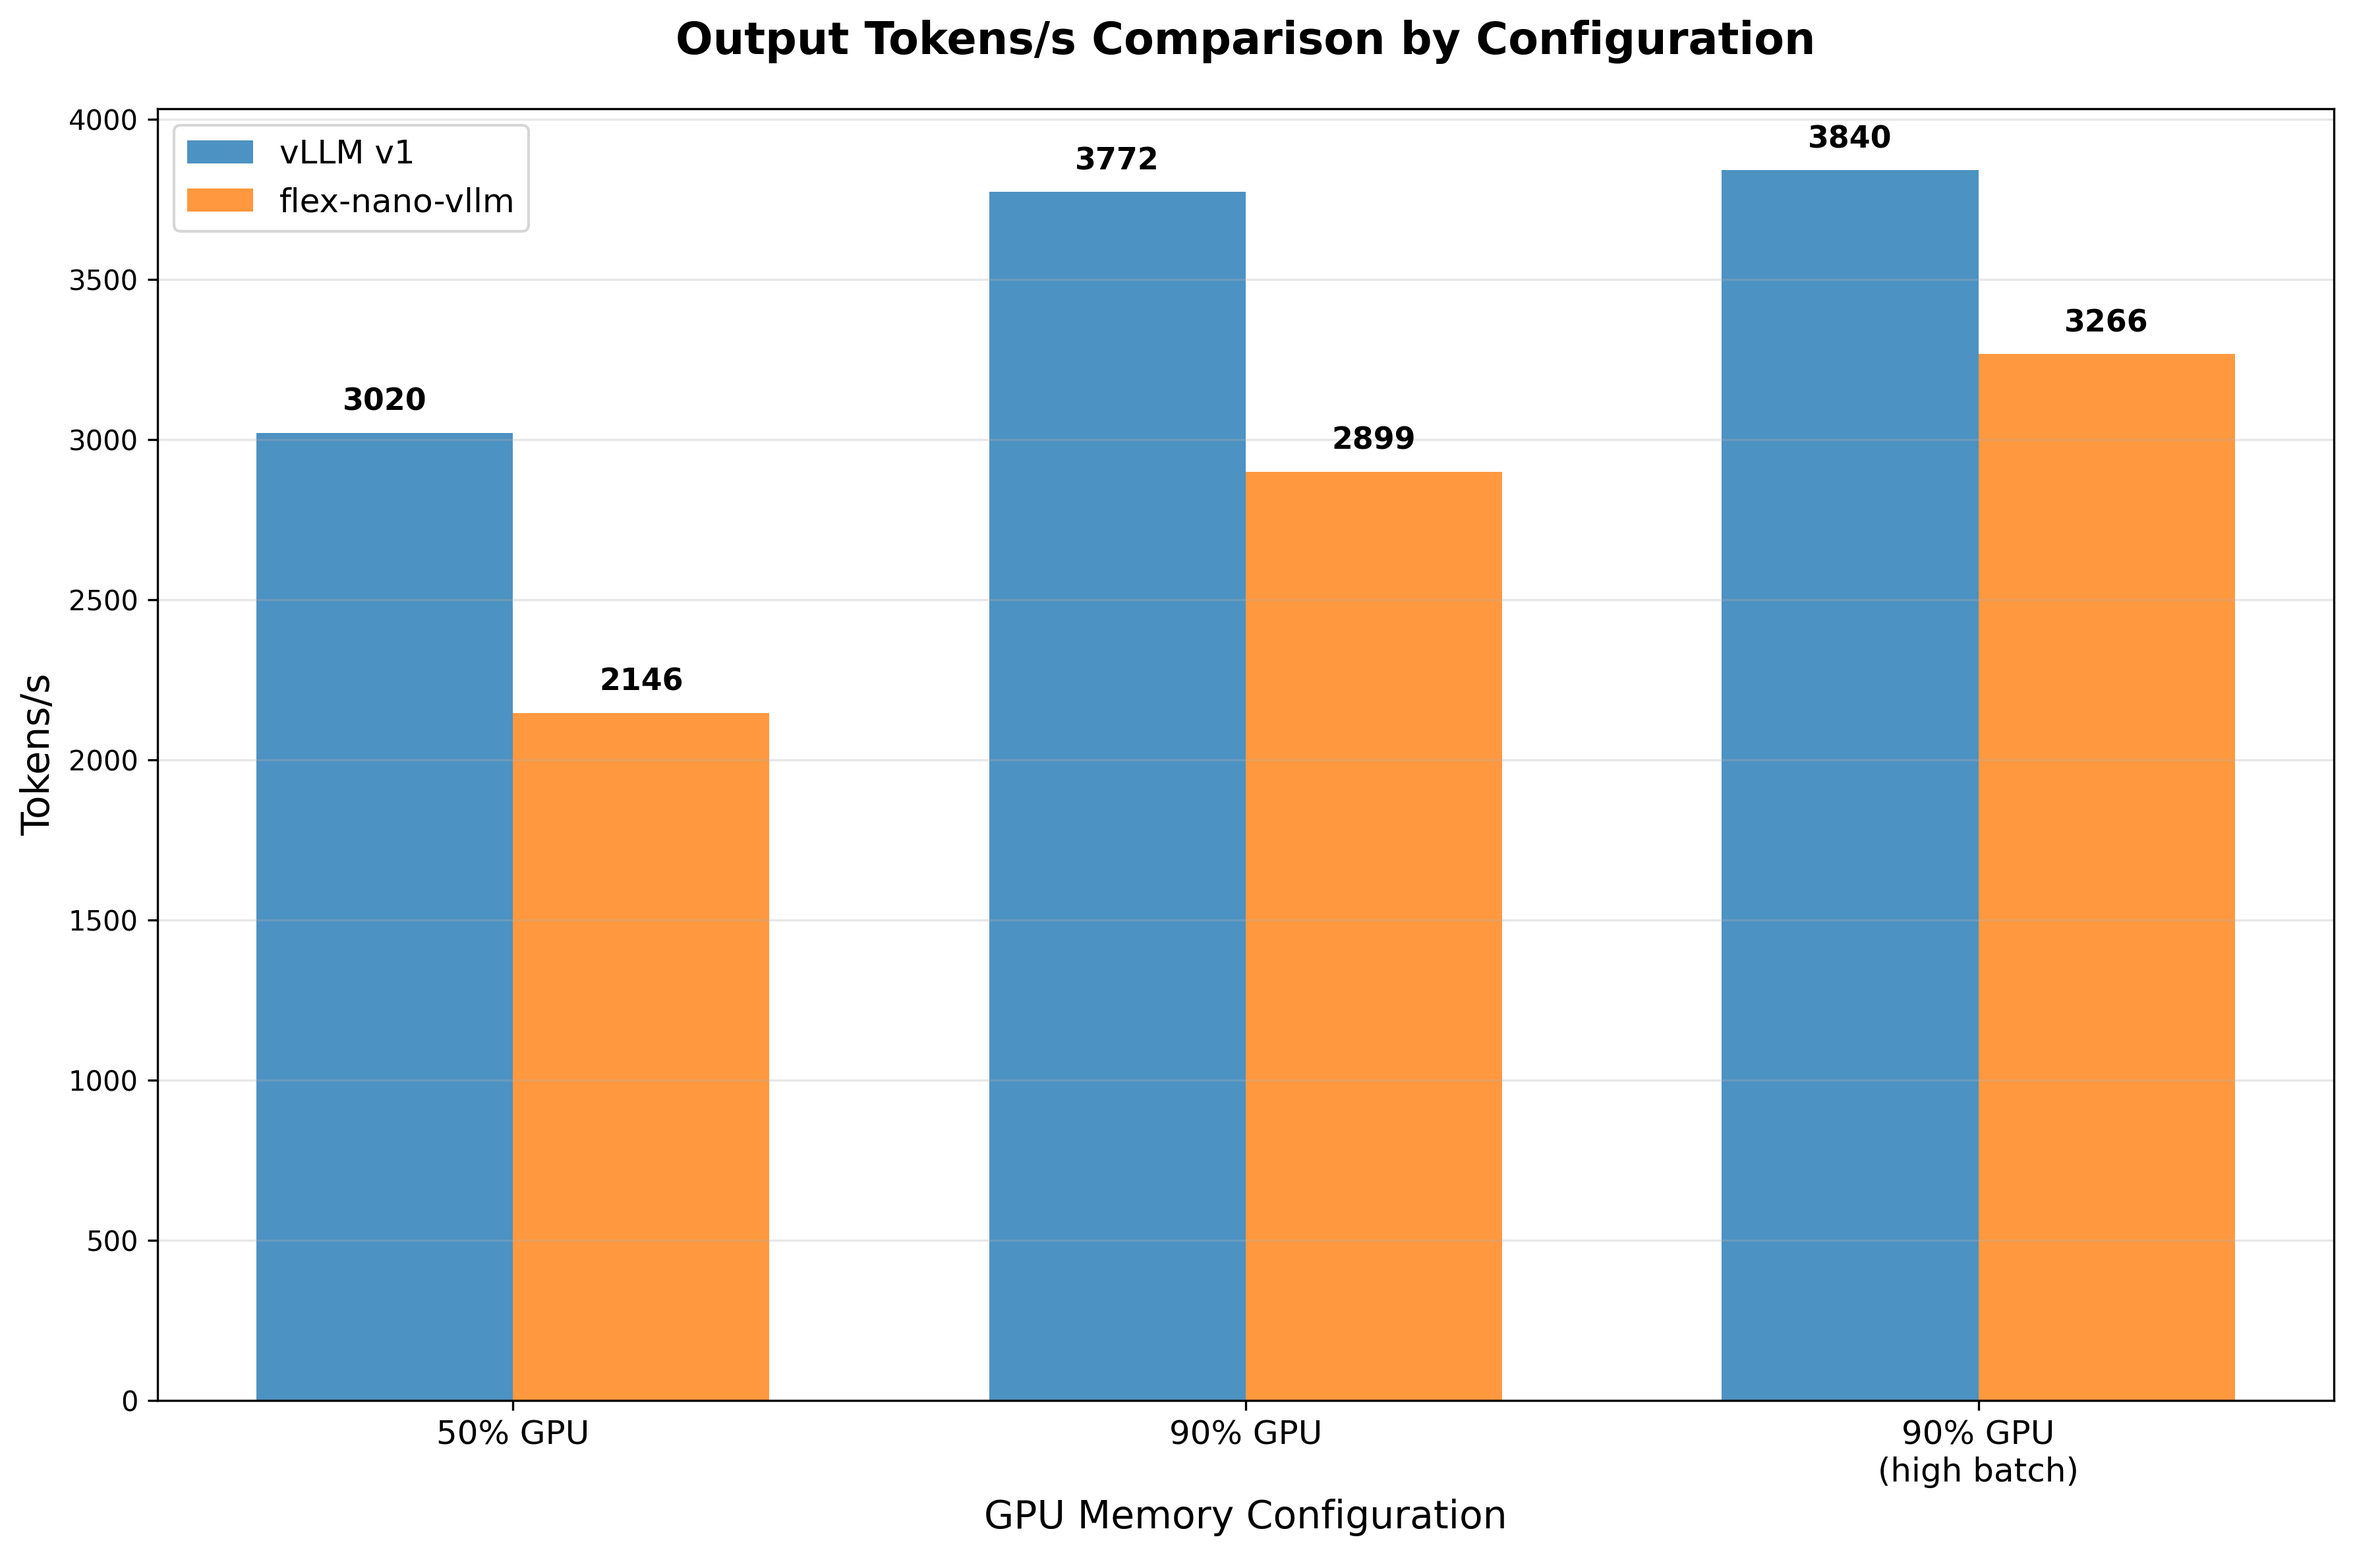
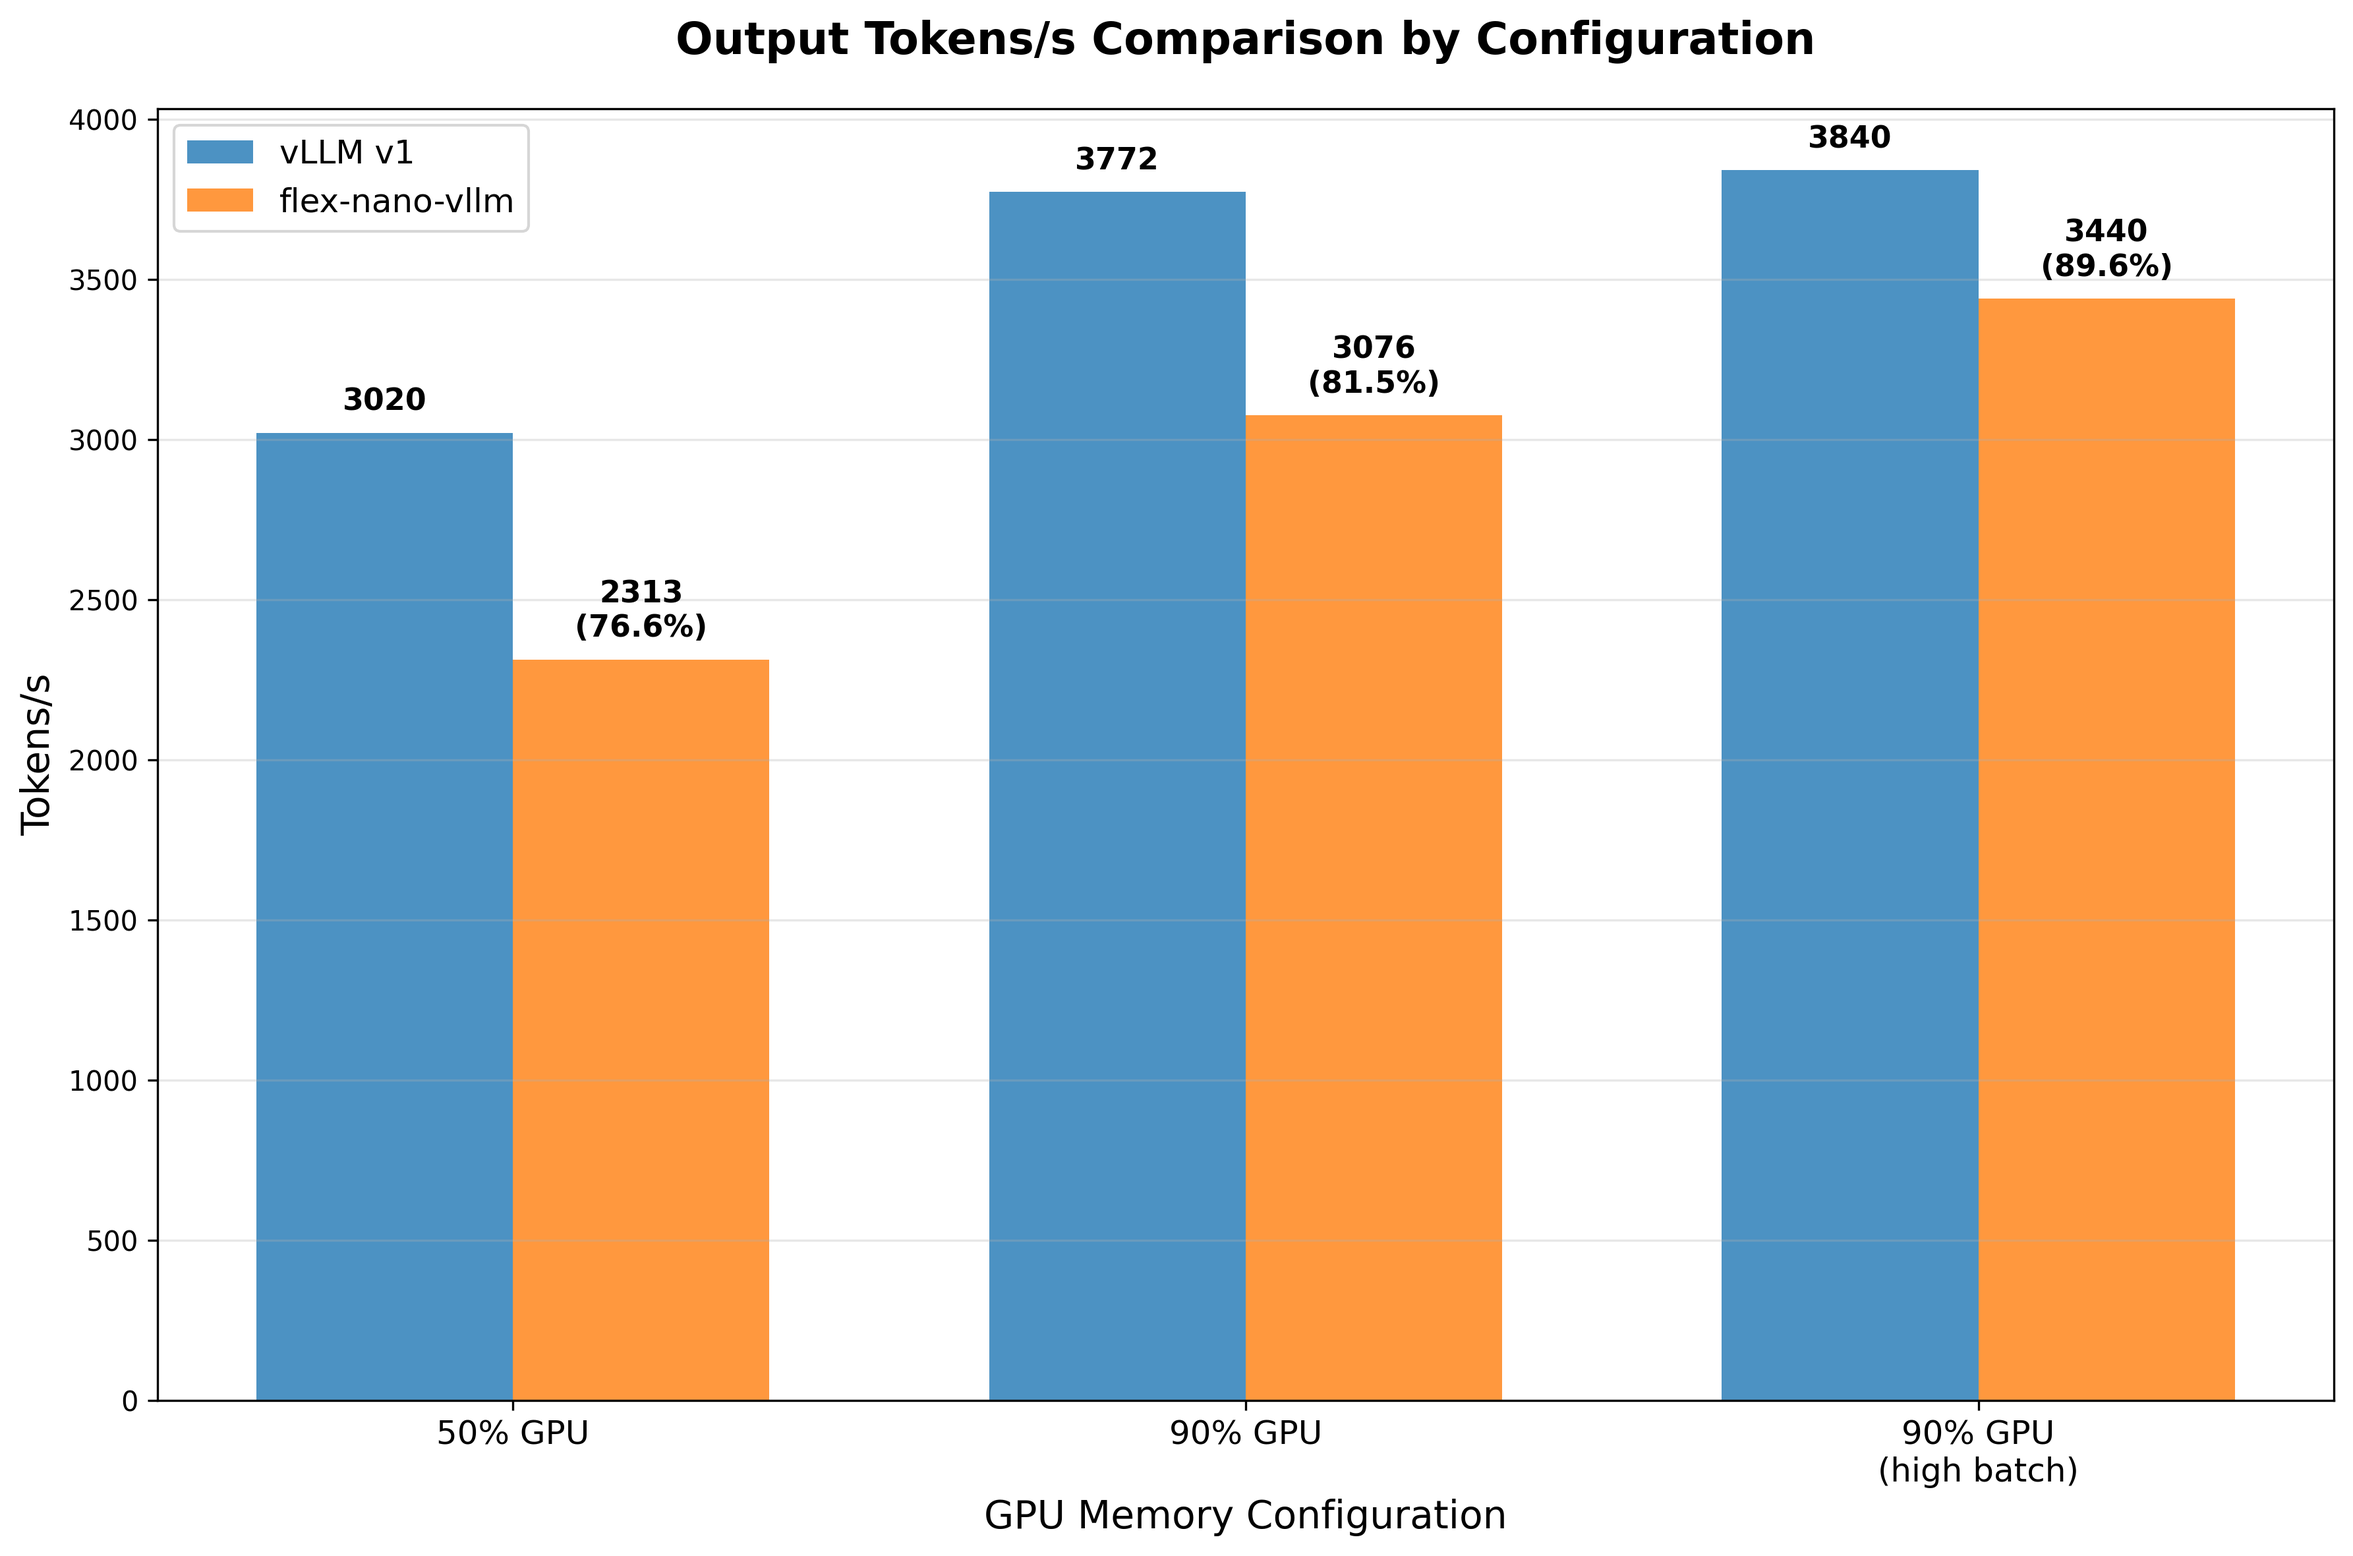
reduce cpu overhead

Changed region(s): [[0.8395, 0.1237, 0.9639, 0.2474], [0.5286, 0.2164, 0.6529, 0.3092], [0.2176, 0.371, 0.342, 0.4638]]

diff --git a/flex_nano_vllm/inference.py b/flex_nano_vllm/inference.py
@@ -37,7 +37,7 @@ def sample(logits_BV, greedy=True, to_cpu=False):
         logits = logits.to("cpu", non_blocking=True).view(B)
         probs = probs.to("cpu", non_blocking=True).view(B)
         torch.cuda.synchronize()
-    return indices, logits, probs
+    return indices.tolist(), logits.tolist(), probs.tolist()
 
 
 class Sequence:
@@ -54,26 +54,26 @@ class Sequence:
         self.inputs = None
 
     def add_next_token(self, token_id: torch.Tensor, logits: torch.Tensor, probs: torch.Tensor):
-        assert token_id.ndim == 0
-        assert logits.ndim == 0
-        self._output_ids.append(token_id.view(1))
-        self._output_logits.append(logits.view(1))
-        self._output_probs.append(probs.view(1))
+        #assert token_id.ndim == 0
+        #assert logits.ndim == 0
+        self._output_ids.append(token_id)
+        self._output_logits.append(logits)
+        self._output_probs.append(probs)
 
     def copy(self):
         return Sequence(self.text)
 
     @property
     def output_ids(self):
-        return torch.cat(self._output_ids, dim=0)
+        return torch.tensor(self._output_ids, dtype=torch.int64)
 
     @property
     def output_logits(self):
-        return torch.cat(self._output_logits, dim=0)
+        return torch.tensor(self._output_logits, dtype=torch.float32)
 
     @property
     def output_probs(self):
-        return torch.cat(self._output_probs, dim=0)
+        return torch.tensor(self._output_probs, dtype=torch.float32)
 
     @property
     def output_length(self):
@@ -112,6 +112,7 @@ class Inference:
 
         self.model = model
         self.tokenizer = tokenizer
+        self.eos_token_id = tokenizer.eos_token_id # cache this because it's not efficient to call tokenizer.eos_token_id every time
         self.device = model.device
         assert max_seq_length % page_size == 0, "max_seq_length must be divisible by page_size"
         self.max_seq_length = max_seq_length
@@ -285,7 +286,7 @@ class Inference:
 
     def _check_done(self, sequences: list[Sequence]):
         for seq in sequences:
-            is_eos = seq.last_token_id == self.tokenizer.eos_token_id
+            is_eos = seq.last_token_id == self.eos_token_id
             is_max_len = seq.input_length + seq.output_length >= self.max_seq_length
             is_max_new = seq.output_length == seq.params.max_new_tokens
             if is_eos or is_max_len or is_max_new:
@@ -346,9 +347,9 @@ class Inference:
 
         B = len(batch)
         # now we do decoding
-        batch_idx = torch.tensor([seq.batch_idx for seq in batch], device=self.device, dtype=torch.int64)
-        input_ids = torch.cat([seq.last_token_id for seq in batch], dim=0).view(-1).to(self.device, non_blocking=True)
-        input_pos = torch.tensor([seq.total_length - 1 for seq in batch], device=self.device, dtype=torch.int32).to(self.device, non_blocking=True)
+        batch_idx = torch.tensor([seq.batch_idx for seq in batch], dtype=torch.int64, pin_memory=True).to(self.device, non_blocking=True)
+        input_ids = torch.tensor([seq.last_token_id for seq in batch], dtype=torch.int64, pin_memory=True).to(self.device, non_blocking=True)
+        input_pos = torch.tensor([seq.total_length - 1 for seq in batch], dtype=torch.int32, pin_memory=True).to(self.device, non_blocking=True)
         self.counts.append(B)
         logits_BLV = self.decode_step(batch_idx, input_ids, input_pos)
         next_token, logits, probs = sample(logits_BLV[:, -1, :], to_cpu=True)

diff --git a/visualize.py b/visualize.py
@@ -12,7 +12,7 @@ import numpy as np
 # Data
 configs = ['50% GPU', '90% GPU', '90% GPU\n(high batch)']
 vllm_output = [3020, 3772, 3840]
-flex_output = [2146, 2899, 3266]
+flex_output = [2313, 3076, 3440]
 
 # Create figure
 fig, ax = plt.subplots(figsize=(12, 8))
@@ -32,11 +32,17 @@ ax.legend(fontsize=12)
 ax.grid(axis='y', alpha=0.3)
 
 # Add value labels
-for bars in [bars1, bars2]:
-    for bar in bars:
-        height = bar.get_height()
-        ax.text(bar.get_x() + bar.get_width()/2., height + 50,
-                f'{int(height)}', ha='center', va='bottom', fontweight='bold', fontsize=11)
+for bar in bars1:
+    height = bar.get_height()
+    ax.text(bar.get_x() + bar.get_width()/2., height + 50,
+            f'{int(height)}', ha='center', va='bottom', fontweight='bold', fontsize=11)
+
+# Add value labels with percentages for flex-nano-vllm
+for i, bar in enumerate(bars2):
+    height = bar.get_height()
+    percentage = (flex_output[i] / vllm_output[i]) * 100
+    ax.text(bar.get_x() + bar.get_width()/2., height + 50,
+            f'{int(height)}\n({percentage:.1f}%)', ha='center', va='bottom', fontweight='bold', fontsize=11)
 
 plt.tight_layout()
 

diff --git a/benchmark.py b/benchmark.py
@@ -111,7 +111,7 @@ if __name__ == "__main__":
     max_seq_length = 2048
     max_input_length = 1024
     token_allocation = 45_360  # 50% memory usage, this number is derived by running uv run benchmark_vllm.py and checking the logs (on a 3090)
-    token_allocation = 140_432  # 100% memory usage, this number is derived by running uv run benchmark_vllm.py and checking the logs (on a 3090)
+    token_allocation = 140_432  # 90% memory usage, this number is derived by running uv run benchmark_vllm.py and checking the logs (on a 3090)
 
     prefill_length_limit = 1024 * 8  # helps control peak memory usage for prefill
 

diff --git a/README.md b/README.md
@@ -48,10 +48,10 @@ Test configuration:
 |---------------|----------------|-----------|------------------|
 | vLLM v1, 90% GPU memory, high batch size† | 3,840 | 17.67 | 7,234 | 
 | vLLM v1, 90% GPU memory | 3,772 | 15.26 | 6,401 | 
-| flex-nano-vllm, 90% GPU memory, high batch size† | 3,266 | 13.83 | 5,794 | 
-| flex-nano-vllm, 90% GPU memory | 2,899 | 13.05 | 5,262 | 
+| flex-nano-vllm, 90% GPU memory, high batch size† | 3,440 | 14.30 | 5,817 |
+| flex-nano-vllm, 90% GPU memory | 3,076 | 13.06 | 5,382 |
 | vLLM v1, 50% GPU memory | 3,020 | 13.74 | 5,448 | 
-| flex-nano-vllm, 50% GPU memory | 2,146 | 9.34 | 3,851 |
+| flex-nano-vllm, 50% GPU memory | 2,313 | 9.96 | 4,068 |
 
 *Total throughput includes both input and output tokens  
 † High batch size means max_num_seqs=512 in vllm (maximum allowed concurrency)
